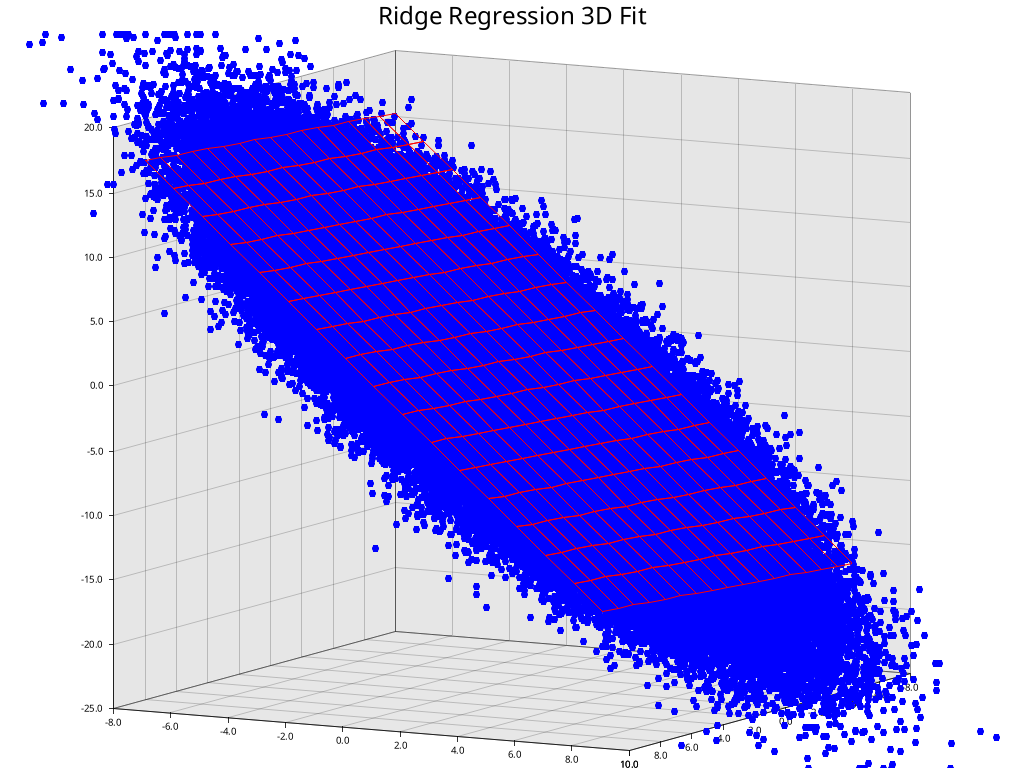
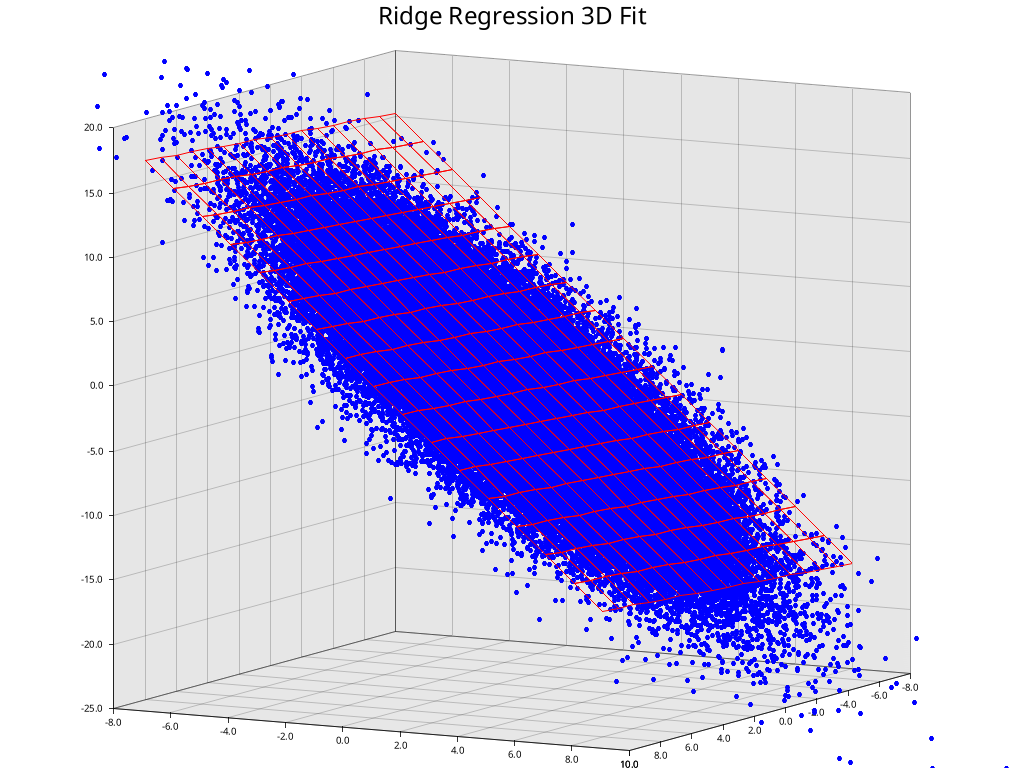
первая лаба на rust доработка

diff --git a/src/main.rs b/src/main.rs
@@ -25,8 +25,6 @@ fn gen_semp(n: usize) -> Vec<D3point>{
         v.push(g);
     }
     v
-
-
 }
 
  
@@ -107,7 +105,7 @@ fn plot_results(v: &[D3point], bet: &DMatrix<f64>) -> Result<(), Box<dyn std::er
     // 1. Отрисовка исходных точек 3D (синие точки)
     // В Plotters координаты передаются в порядке (X, Z, Y) для правильной проекции осей
     chart.draw_series(
-        v.iter().map(|p| Circle::new((p.x, p.z, p.y), 3, BLUE.filled()))
+        v.iter().map(|p| Circle::new((p.x, p.z, p.y), 2, BLUE.filled()))
     )?;
 
     // 2. Отрисовка регрессионной плоскости z = b0 + b1*x + b2*y
@@ -146,16 +144,16 @@ fn plot_results(v: &[D3point], bet: &DMatrix<f64>) -> Result<(), Box<dyn std::er
 }
 
 fn main() {
-    let semp: Vec<D3point> = gen_semp(1000000);
-     let bet1: DMatrix<f64> = rid_reg(&semp, 1000000);
-    let bet: DMatrix<f64> = ransac_rid_reg(&semp, 1000000, 0.1);
+    let semp: Vec<D3point> = gen_semp(100000);
+     let bet1: DMatrix<f64> = rid_reg(&semp, 100000);
+    let bet: DMatrix<f64> = ransac_rid_reg(&semp, 100000, 0.1);
     let  _f = plot_results(&semp, &bet);
-    let semp2: Vec<D3point> = gen_semp(1000000);
-    println!("{}", mse_test(&semp, 1000000, &bet));
-    println!("{}", mse_test(&semp, 1000000, &bet1));
+    let semp2: Vec<D3point> = gen_semp(100000);
+    println!("{}", mse_test(&semp, 100000, &bet));
+    println!("{}", mse_test(&semp, 100000, &bet1));
 
-    println!("{}", mse_test(&semp2, 1000000, &bet));
-    println!("{}", mse_test(&semp2, 1000000, &bet1));
+    println!("{}", mse_test(&semp2, 100000, &bet));
+    println!("{}", mse_test(&semp2, 100000, &bet1));
 
 
 }
